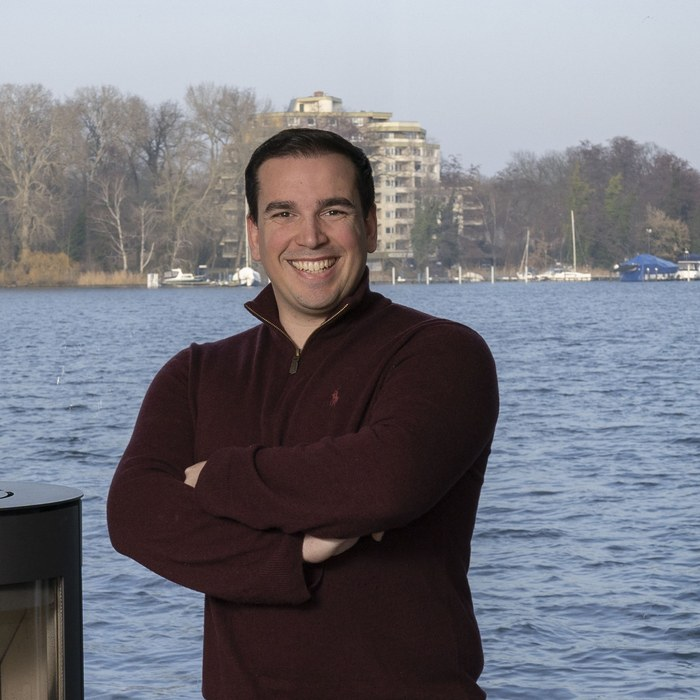
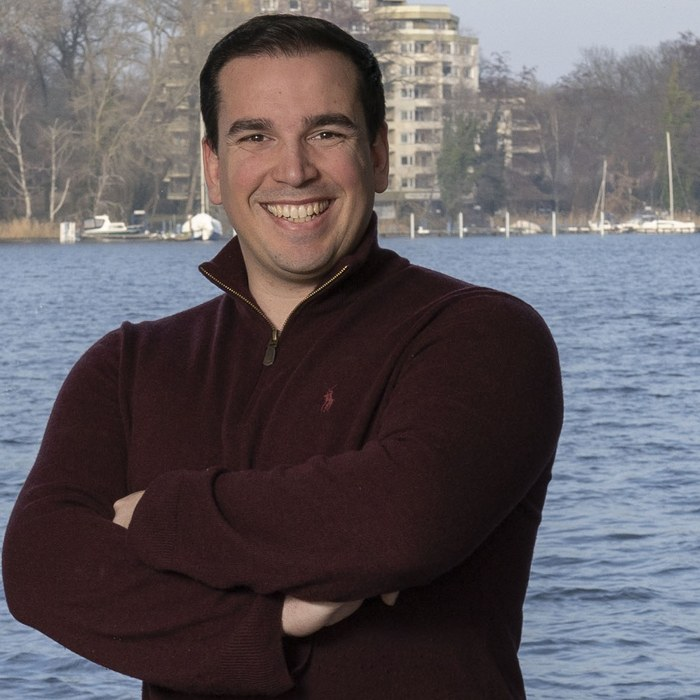
Copy-Schliff (Hero/System/Einstieg), neue Headline+Rotator, Trust-Badges, große About-Bilder, Rechtsseiten, kuratierter Datenschutz

diff --git a/index-v2.html b/index-v2.html
@@ -74,6 +74,9 @@ body::after{
 .title{font-family:var(--fd);font-weight:600;font-size:clamp(27px,3.3vw,44px);line-height:1.08;letter-spacing:-0.03em;max-width:20ch;}
 .sub{margin-top:30px;font-size:clamp(16px,1.35vw,20px);line-height:1.6;color:var(--text-50);max-width:62ch;}
 .accent{color:var(--blue-light);}
+.rot{display:inline-block;}
+.rot-w{display:inline-block;transition:opacity .3s ease,transform .3s ease;}
+.rot-w.out{opacity:0;transform:translateY(-0.35em);}
 @media(max-width:768px){.wrap{padding:0 22px;}}
 
 /* ── buttons ── */
@@ -111,6 +114,9 @@ body::after{
 .hero h1 .line{display:block;overflow:hidden;padding-bottom:0.06em;margin-bottom:-0.06em;}
 .hero h1 .line-inner{display:block;}
 .hero-sub{margin-top:34px;font-size:clamp(17px,1.5vw,21px);line-height:1.6;color:var(--text-50);max-width:48ch;}
+.hero-trust{display:flex;flex-wrap:wrap;gap:12px 26px;margin-top:28px;}
+.hero-trust>span{display:inline-flex;align-items:center;gap:7px;font-size:13.5px;color:var(--text-50);}
+.hero-trust .material-symbols-outlined{font-size:18px;color:var(--blue-light);}
 .hero-actions{margin-top:44px;display:flex;align-items:center;gap:14px;flex-wrap:wrap;}
 .hero-visual{position:relative;}
 .hero-dash{position:relative;border-radius:18px;overflow:hidden;border:1px solid var(--line);box-shadow:0 40px 100px -30px rgba(0,0,0,0.8),0 0 0 1px rgba(255,255,255,0.02);transform:perspective(1500px) rotateY(-8deg) rotateX(3deg);transition:transform .8s cubic-bezier(.16,1,.3,1);}
@@ -393,23 +399,37 @@ body::after{
 .team-kicker{justify-content:center;margin-bottom:26px;}
 .team-photo-c{width:64%;max-width:700px;margin:0;}
 .team-photo-c img{width:100%;height:auto;display:block;}
-.team-copy{position:relative;z-index:2;max-width:760px;margin-top:clamp(-185px,-11.5vw,-52px);}
+.team-copy{position:relative;z-index:2;max-width:760px;margin-top:clamp(-360px,-24vw,-90px);}
 .team-hero .title{max-width:none;}
 .team-hero .sub{margin:18px auto 0;}
-@media(max-width:760px){.team-photo-c{width:94%;}.team-copy{margin-top:-14vw;}}
+@media(max-width:760px){.team-photo-c{width:94%;}.team-copy{margin-top:-24vw;}}
 .fbio-cal{display:inline-flex;align-items:center;gap:6px;margin-top:14px;font-size:13px;font-weight:500;color:var(--blue-light);transition:gap .3s ease,color .3s ease;}
 .fbio-cal .material-symbols-outlined{font-size:17px;}
 .fbio-cal:hover{gap:11px;color:#fff;}
-.leitbild{max-width:720px;margin:clamp(40px,5vw,64px) auto 0;text-align:center;}
+.leitbild{max-width:880px;margin:clamp(72px,10vw,128px) auto 0;text-align:center;background:linear-gradient(180deg,rgba(255,255,255,0.07),rgba(255,255,255,0.025));border:1px solid var(--line-strong);border-radius:24px;padding:clamp(36px,5vw,60px);}
 .leitbild .kicker{justify-content:center;margin-bottom:18px;}
-.leitbild p{color:var(--text-50);font-size:clamp(16px,1.6vw,20px);line-height:1.7;}
+.leitbild p{color:var(--text);font-size:clamp(16px,1.6vw,20px);line-height:1.7;}
+.ff-cta{margin-top:22px;}
 .contact-grid{margin-top:clamp(32px,4vw,48px);display:grid;grid-template-columns:repeat(3,1fr);gap:14px;}
 .contact-card{display:flex;align-items:center;gap:14px;padding:20px 22px;border:1px solid var(--line);border-radius:16px;background:var(--bg-2);transition:border-color .3s ease,transform .3s ease;}
 .contact-card:hover{border-color:var(--line-strong);transform:translateY(-2px);}
 .contact-card .material-symbols-outlined{font-size:24px;color:var(--blue-light);flex-shrink:0;}
 .contact-card .cc-l{display:block;font-family:var(--fm);font-size:10px;letter-spacing:0.14em;text-transform:uppercase;color:var(--text-35);}
 .contact-card .cc-v{display:block;font-size:15px;color:var(--text);margin-top:3px;}
-@media(max-width:760px){.contact-grid{grid-template-columns:1fr;}}
+.contact-grid.two{grid-template-columns:repeat(2,1fr);max-width:760px;}
+.contact-or{margin-top:clamp(36px,5vw,56px);color:var(--text-50);font-size:15px;}
+.contact-or + .contact-grid{margin-top:14px;}
+.legal{max-width:780px;}
+.legal-updated{font-family:var(--fm);font-size:12px;letter-spacing:0.08em;text-transform:uppercase;color:var(--text-35);margin-bottom:26px;}
+.legal h2{font-family:var(--fd);font-weight:600;font-size:clamp(20px,2.4vw,28px);letter-spacing:-0.02em;margin:40px 0 14px;}
+.legal h3{font-family:var(--fd);font-weight:600;font-size:17px;margin:26px 0 10px;}
+.legal p{color:var(--text-50);font-size:15px;line-height:1.75;margin:0 0 14px;}
+.legal .legal-label{color:var(--text);font-weight:600;margin:18px 0 6px;}
+.legal .legal-attr{font-size:12.5px;color:var(--text-35);margin-top:30px;}
+.legal ul{margin:0 0 16px;padding-left:20px;}
+.legal li{color:var(--text-50);font-size:15px;line-height:1.7;margin-bottom:6px;}
+.legal a{color:var(--blue-light);text-decoration:underline;word-break:break-word;}
+@media(max-width:760px){.contact-grid,.contact-grid.two{grid-template-columns:1fr;}}
 .founder-features{margin-top:clamp(36px,5vw,64px);display:flex;flex-direction:column;gap:clamp(44px,6vw,92px);}
 .founder-feature{display:grid;grid-template-columns:1.05fr 1fr;gap:clamp(28px,4.5vw,64px);align-items:center;}
 .founder-feature.alt .ff-media{order:2;}
@@ -473,6 +493,9 @@ body::after{
 .form-submit:hover{background:var(--blue-light);}
 .form-submit:disabled{opacity:.6;pointer-events:none;}
 .form-privacy{font-size:12px;color:var(--text-35);text-align:center;margin-top:10px;line-height:1.5;}
+.form-check{display:flex;align-items:flex-start;gap:10px;margin-top:6px;font-size:12.5px;color:var(--text-50);line-height:1.5;cursor:pointer;}
+.form-check input{margin-top:1px;width:16px;height:16px;flex-shrink:0;accent-color:var(--blue);cursor:pointer;}
+.form-check a{color:var(--blue-light);text-decoration:underline;}
 .modal-success{padding:46px 30px;text-align:center;display:none;}
 .modal-success.show{display:block;}
 .modal-form-wrap.hide{display:none;}
@@ -520,13 +543,17 @@ body.cursor-on,body.cursor-on a,body.cursor-on button,body.cursor-on input{curso
   <div class="hero-grid">
     <div>
       <h1 class="hero-h1">
-        <span class="line"><span class="line-inner">Nicht dein Marketing verliert Anfragen.</span></span>
-        <span class="line"><span class="line-inner">Sondern <span class="accent">was danach passiert.</span></span></span>
+        <span class="line"><span class="line-inner">Aus <span class="rot" id="heroRot"><span class="rot-w accent">jeder Anfrage</span></span> das Maximum.</span></span>
+        <span class="line"><span class="line-inner"><span class="accent">Messbar.</span></span></span>
       </h1>
-      <p class="hero-sub">Wir richten dein CRM so ein, dass keine Anfrage mehr liegen bleibt, jedes Angebot nachgefasst wird und du jederzeit siehst, wo jeder Deal steht.</p>
+      <p class="hero-sub">Wir bauen das System, das aus deinen bestehenden Anfragen mehr Termine und mehr Aufträge macht, ohne einen Euro mehr Werbung.</p>
       <div class="hero-actions">
         <a class="btn btn-primary" href="#cta">Strategiegespräch vereinbaren <span class="material-symbols-outlined">arrow_forward</span></a>
-        <a class="btn btn-ghost" href="#process">So arbeiten wir <span class="material-symbols-outlined">arrow_downward</span></a>
+        <a class="btn btn-ghost" href="#testimonials">Fallstudie ansehen <span class="material-symbols-outlined">arrow_downward</span></a>
+      </div>
+      <div class="hero-trust">
+        <span><span class="material-symbols-outlined">verified</span>Offizieller Pipedrive-Partner</span>
+        <span><span class="material-symbols-outlined">verified</span>Förderfähige Beratung</span>
       </div>
     </div>
     <div class="hero-visual">
@@ -611,9 +638,9 @@ body.cursor-on,body.cursor-on a,body.cursor-on button,body.cursor-on input{curso
 <!-- 02 SYSTEM -->
 <section class="sec" id="funnel">
   <div class="wrap">
-    <div class="kicker rv"><span class="idx">02</span><span class="bar"></span>Ein System</div>
-    <h2 class="title rv">Von der ersten Anfrage bis zum Auftrag, an einem Ort</h2>
-    <p class="sub rv d1">Jede Anfrage läuft durch denselben klaren Weg. Nichts bleibt liegen, nichts wird vergessen, und du siehst jederzeit, wo jeder Lead steht.</p>
+    <div class="kicker rv"><span class="idx">02</span><span class="bar"></span>Das System dahinter</div>
+    <h2 class="title rv">Keine Anfrage fällt mehr durchs Raster.</h2>
+    <p class="sub rv d1">Jede Anfrage läuft automatisch durch denselben Weg: erfasst, bestätigt, qualifiziert, nachgefasst. Du verlierst keine mehr und siehst jederzeit, wo jeder Deal steht.</p>
     <div class="stage rv">
       <div class="stage-video">
         <video class="v-desktop" autoplay muted loop playsinline preload="metadata" poster="assets/journey-start.png"><source src="assets/journey.mp4" type="video/mp4"/></video>
@@ -761,8 +788,8 @@ body.cursor-on,body.cursor-on a,body.cursor-on button,body.cursor-on input{curso
   <div class="wrap">
     <div class="entry-card rv">
       <div class="entry-badge">Der Einstieg</div>
-      <h3>Ein klarer Plan, bevor du dich festlegst.</h3>
-      <p>Wir starten mit einem kostenlosen Strategiegespräch und einer Analyse deines Anfrageprozesses. Du bekommst eine ehrliche Einschätzung, wo wir die größten Hebel sehen, und einen konkreten Maßnahmenplan mit Soll-Ist-Abgleich. Auf dieser Grundlage entscheidest du in Ruhe, ob und in welchem Umfang wir umsetzen.</p>
+      <h3>Du bekommst einen Fahrplan, bevor du einen Cent investierst.</h3>
+      <p>Im kostenlosen Strategiegespräch analysieren wir deinen Anfrageprozess und du bekommst einen konkreten Maßnahmenplan mit Soll-Ist-Abgleich: wo Umsatz liegen bleibt und welche Schritte das ändern. Den Plan behältst du, auch wenn wir nicht zusammenarbeiten.</p>
       <a class="btn btn-primary" href="#cta">Strategiegespräch vereinbaren <span class="material-symbols-outlined">arrow_forward</span></a>
     </div>
   </div>
@@ -810,11 +837,11 @@ body.cursor-on,body.cursor-on a,body.cursor-on button,body.cursor-on input{curso
     </div>
     <div class="founder-bios">
       <div class="fbio rv">
-        <div class="fbio-img"><img src="assets/janosch.jpg" alt="Janosch Jassim" loading="lazy"/></div>
+        <div class="fbio-img"><img src="assets/janosch.jpg?v=4" alt="Janosch Jassim" loading="lazy"/></div>
         <div><h4>Janosch Jassim</h4><div class="founder-role">Prozesse, CRM &amp; Förderung</div><p>Knapp 10 Jahre Digitalisierung im Mittelstand und Konzern, unter anderem bei der Deutschen Bahn. Baut CRM-Systeme und Automatisierungen, geprüfter Förderberater.</p></div>
       </div>
       <div class="fbio rv d1">
-        <div class="fbio-img"><img src="assets/valentin.jpg" alt="Valentin Hering" loading="lazy"/></div>
+        <div class="fbio-img"><img src="assets/valentin.jpg?v=3" alt="Valentin Hering" loading="lazy"/></div>
         <div><h4>Valentin Hering</h4><div class="founder-role">Performance, Vertrieb &amp; Daten</div><p>6 Jahre Verantwortung für Marketingbudgets von 10.000 bis 400.000 Euro, über Startups, Scale-ups und Mittelstand. Schwerpunkt: Datenbasiertes Testing sowie Anfragen- und Vertriebsoptimierung.</p></div>
       </div>
     </div>
@@ -837,7 +864,7 @@ body.cursor-on,body.cursor-on a,body.cursor-on button,body.cursor-on input{curso
     <button class="modal-close" id="modalClose"><span class="material-symbols-outlined" style="font-size:20px;">close</span></button>
     <div class="modal-form-wrap" id="modalFormWrap">
       <div class="modal-header">
-        <div class="modal-avatar"><img src="assets/valentin.jpg" alt="Valentin Hering"/></div>
+        <div class="modal-avatar"><img src="assets/valentin.jpg?v=3" alt="Valentin Hering"/></div>
         <div><h3>Strategiegespräch vereinbaren</h3><p>Ein erstes Gespräch mit den Gründern. Direkt und unverbindlich.</p></div>
       </div>
       <div class="modal-body">
@@ -854,6 +881,7 @@ body.cursor-on,body.cursor-on a,body.cursor-on button,body.cursor-on input{curso
           <div class="ff"><label for="fc">Unternehmen</label><input id="fc" type="text" placeholder="Name deines Unternehmens" required/></div>
           <div class="ff"><label for="fe">E-Mail-Adresse</label><input id="fe" type="email" placeholder="[email redacted]" required/></div>
           <div class="ff"><label for="fp">Telefonnummer</label><input id="fp" type="tel" placeholder="+49 ..." required/></div>
+          <label class="form-check"><input id="fprivacy" type="checkbox" required/><span>Ich habe die <a href="datenschutz.html" target="_blank" rel="noopener">Datenschutzerklärung</a> gelesen und bin mit der Verarbeitung meiner Daten einverstanden.</span></label>
           <button type="submit" class="form-submit" id="formSubmit">Strategiegespräch anfragen <span class="material-symbols-outlined" style="font-size:20px;">arrow_forward</span></button>
         </form>
         <p class="form-privacy">Wir nutzen deine Daten ausschließlich, um dich für das Strategiegespräch zu kontaktieren.</p>
@@ -889,7 +917,7 @@ body.cursor-on,body.cursor-on a,body.cursor-on button,body.cursor-on input{curso
     </div>
     <div class="footer-bot">
       <span>&copy; 2026 Growth Unit GmbH</span>
-      <div class="footer-legal"><a href="https://www.growthunit.de/impressum" target="_blank" rel="noopener">Impressum</a><a href="https://www.growthunit.de/datenschutz" target="_blank" rel="noopener">Datenschutz</a></div>
+      <div class="footer-legal"><a href="impressum.html">Impressum</a><a href="datenschutz.html">Datenschutz</a></div>
     </div>
   </div>
 </footer>
@@ -901,6 +929,17 @@ body.cursor-on,body.cursor-on a,body.cursor-on button,body.cursor-on input{curso
 // baseline reveals (work without GSAP)
 const io=new IntersectionObserver(es=>{es.forEach(e=>{if(e.isIntersecting){e.target.classList.add('vis');io.unobserve(e.target);}})},{threshold:0.12,rootMargin:'0px 0px -40px 0px'});
 document.querySelectorAll('.rv').forEach(el=>io.observe(el));
+
+// hero word rotator: Anfrage <-> Lead
+(function(){
+  var el=document.getElementById('heroRot'); if(!el)return;
+  if(matchMedia('(prefers-reduced-motion: reduce)').matches)return;
+  var w=el.querySelector('.rot-w'), words=['jeder Anfrage','jedem Lead'], i=0;
+  setInterval(function(){
+    w.classList.add('out');
+    setTimeout(function(){ i=(i+1)%words.length; w.textContent=words[i]; w.classList.remove('out'); },300);
+  },2600);
+})();
 
 // nav
 const nav=document.getElementById('nav');
@@ -988,12 +1027,13 @@ cForm.addEventListener('submit',async e=>{
 
   // hero line reveal
   gsap.set('.hero-h1 .line-inner',{yPercent:115});
-  gsap.set(['.hero-sub','.hero-actions','.hero-visual'],{opacity:0,y:30});
+  gsap.set(['.hero-sub','.hero-actions','.hero-trust','.hero-visual'],{opacity:0,y:30});
   gsap.timeline({defaults:{ease:'power3.out'}})
     .to('.hero-h1 .line-inner',{yPercent:0,duration:1.1,stagger:0.1,ease:'power4.out'},0.15)
     .to('.hero-visual',{opacity:1,y:0,duration:1.1},0.4)
     .to('.hero-sub',{opacity:1,y:0,duration:0.9},0.7)
-    .to('.hero-actions',{opacity:1,y:0,duration:0.9},0.85);
+    .to('.hero-actions',{opacity:1,y:0,duration:0.9},0.85)
+    .to('.hero-trust',{opacity:1,y:0,duration:0.9},1.0);
 
   // funnel line scrub
   var flow=document.getElementById('flow');

diff --git a/about.html b/about.html
@@ -74,6 +74,9 @@ body::after{
 .title{font-family:var(--fd);font-weight:600;font-size:clamp(27px,3.3vw,44px);line-height:1.08;letter-spacing:-0.03em;max-width:20ch;}
 .sub{margin-top:30px;font-size:clamp(16px,1.35vw,20px);line-height:1.6;color:var(--text-50);max-width:62ch;}
 .accent{color:var(--blue-light);}
+.rot{display:inline-block;}
+.rot-w{display:inline-block;transition:opacity .3s ease,transform .3s ease;}
+.rot-w.out{opacity:0;transform:translateY(-0.35em);}
 @media(max-width:768px){.wrap{padding:0 22px;}}
 
 /* ── buttons ── */
@@ -111,6 +114,9 @@ body::after{
 .hero h1 .line{display:block;overflow:hidden;padding-bottom:0.06em;margin-bottom:-0.06em;}
 .hero h1 .line-inner{display:block;}
 .hero-sub{margin-top:34px;font-size:clamp(17px,1.5vw,21px);line-height:1.6;color:var(--text-50);max-width:48ch;}
+.hero-trust{display:flex;flex-wrap:wrap;gap:12px 26px;margin-top:28px;}
+.hero-trust>span{display:inline-flex;align-items:center;gap:7px;font-size:13.5px;color:var(--text-50);}
+.hero-trust .material-symbols-outlined{font-size:18px;color:var(--blue-light);}
 .hero-actions{margin-top:44px;display:flex;align-items:center;gap:14px;flex-wrap:wrap;}
 .hero-visual{position:relative;}
 .hero-dash{position:relative;border-radius:18px;overflow:hidden;border:1px solid var(--line);box-shadow:0 40px 100px -30px rgba(0,0,0,0.8),0 0 0 1px rgba(255,255,255,0.02);transform:perspective(1500px) rotateY(-8deg) rotateX(3deg);transition:transform .8s cubic-bezier(.16,1,.3,1);}
@@ -393,23 +399,37 @@ body::after{
 .team-kicker{justify-content:center;margin-bottom:26px;}
 .team-photo-c{width:64%;max-width:700px;margin:0;}
 .team-photo-c img{width:100%;height:auto;display:block;}
-.team-copy{position:relative;z-index:2;max-width:760px;margin-top:clamp(-185px,-11.5vw,-52px);}
+.team-copy{position:relative;z-index:2;max-width:760px;margin-top:clamp(-360px,-24vw,-90px);}
 .team-hero .title{max-width:none;}
 .team-hero .sub{margin:18px auto 0;}
-@media(max-width:760px){.team-photo-c{width:94%;}.team-copy{margin-top:-14vw;}}
+@media(max-width:760px){.team-photo-c{width:94%;}.team-copy{margin-top:-24vw;}}
 .fbio-cal{display:inline-flex;align-items:center;gap:6px;margin-top:14px;font-size:13px;font-weight:500;color:var(--blue-light);transition:gap .3s ease,color .3s ease;}
 .fbio-cal .material-symbols-outlined{font-size:17px;}
 .fbio-cal:hover{gap:11px;color:#fff;}
-.leitbild{max-width:720px;margin:clamp(40px,5vw,64px) auto 0;text-align:center;}
+.leitbild{max-width:880px;margin:clamp(72px,10vw,128px) auto 0;text-align:center;background:linear-gradient(180deg,rgba(255,255,255,0.07),rgba(255,255,255,0.025));border:1px solid var(--line-strong);border-radius:24px;padding:clamp(36px,5vw,60px);}
 .leitbild .kicker{justify-content:center;margin-bottom:18px;}
-.leitbild p{color:var(--text-50);font-size:clamp(16px,1.6vw,20px);line-height:1.7;}
+.leitbild p{color:var(--text);font-size:clamp(16px,1.6vw,20px);line-height:1.7;}
+.ff-cta{margin-top:22px;}
 .contact-grid{margin-top:clamp(32px,4vw,48px);display:grid;grid-template-columns:repeat(3,1fr);gap:14px;}
 .contact-card{display:flex;align-items:center;gap:14px;padding:20px 22px;border:1px solid var(--line);border-radius:16px;background:var(--bg-2);transition:border-color .3s ease,transform .3s ease;}
 .contact-card:hover{border-color:var(--line-strong);transform:translateY(-2px);}
 .contact-card .material-symbols-outlined{font-size:24px;color:var(--blue-light);flex-shrink:0;}
 .contact-card .cc-l{display:block;font-family:var(--fm);font-size:10px;letter-spacing:0.14em;text-transform:uppercase;color:var(--text-35);}
 .contact-card .cc-v{display:block;font-size:15px;color:var(--text);margin-top:3px;}
-@media(max-width:760px){.contact-grid{grid-template-columns:1fr;}}
+.contact-grid.two{grid-template-columns:repeat(2,1fr);max-width:760px;}
+.contact-or{margin-top:clamp(36px,5vw,56px);color:var(--text-50);font-size:15px;}
+.contact-or + .contact-grid{margin-top:14px;}
+.legal{max-width:780px;}
+.legal-updated{font-family:var(--fm);font-size:12px;letter-spacing:0.08em;text-transform:uppercase;color:var(--text-35);margin-bottom:26px;}
+.legal h2{font-family:var(--fd);font-weight:600;font-size:clamp(20px,2.4vw,28px);letter-spacing:-0.02em;margin:40px 0 14px;}
+.legal h3{font-family:var(--fd);font-weight:600;font-size:17px;margin:26px 0 10px;}
+.legal p{color:var(--text-50);font-size:15px;line-height:1.75;margin:0 0 14px;}
+.legal .legal-label{color:var(--text);font-weight:600;margin:18px 0 6px;}
+.legal .legal-attr{font-size:12.5px;color:var(--text-35);margin-top:30px;}
+.legal ul{margin:0 0 16px;padding-left:20px;}
+.legal li{color:var(--text-50);font-size:15px;line-height:1.7;margin-bottom:6px;}
+.legal a{color:var(--blue-light);text-decoration:underline;word-break:break-word;}
+@media(max-width:760px){.contact-grid,.contact-grid.two{grid-template-columns:1fr;}}
 .founder-features{margin-top:clamp(36px,5vw,64px);display:flex;flex-direction:column;gap:clamp(44px,6vw,92px);}
 .founder-feature{display:grid;grid-template-columns:1.05fr 1fr;gap:clamp(28px,4.5vw,64px);align-items:center;}
 .founder-feature.alt .ff-media{order:2;}
@@ -473,6 +493,9 @@ body::after{
 .form-submit:hover{background:var(--blue-light);}
 .form-submit:disabled{opacity:.6;pointer-events:none;}
 .form-privacy{font-size:12px;color:var(--text-35);text-align:center;margin-top:10px;line-height:1.5;}
+.form-check{display:flex;align-items:flex-start;gap:10px;margin-top:6px;font-size:12.5px;color:var(--text-50);line-height:1.5;cursor:pointer;}
+.form-check input{margin-top:1px;width:16px;height:16px;flex-shrink:0;accent-color:var(--blue);cursor:pointer;}
+.form-check a{color:var(--blue-light);text-decoration:underline;}
 .modal-success{padding:46px 30px;text-align:center;display:none;}
 .modal-success.show{display:block;}
 .modal-form-wrap.hide{display:none;}
@@ -519,16 +542,16 @@ body.cursor-on,body.cursor-on a,body.cursor-on button,body.cursor-on input{curso
 <section class="sec" id="about" style="padding-top:clamp(140px,18vh,200px);">
   <div class="wrap">
     <div class="kicker rv">Über uns</div>
-    <h2 class="title rv">Meet the Team</h2>
-    <p class="sub rv d1">Mit langjähriger Erfahrung aus verschiedenen Branchen und Unternehmensgrößen setzen wir neue Standards.</p>
+    <h2 class="title rv">Wir setzen den Standard, den andere versprechen.</h2>
+    <p class="sub rv d1">Wir arbeiten als Partner mit, nicht als Dienstleister, der Aufgaben abarbeitet.</p>
     <div class="founder-features">
       <div class="founder-feature rv">
         <div class="ff-media"><img src="assets/valentin-lg.jpg" alt="Valentin Hering, Gründer von Growth Unit" loading="lazy"/></div>
         <div class="ff-body">
           <h3>Valentin Hering</h3>
           <div class="founder-role">Geschäftsführer · Marketing-Evangelist mit Fokus auf Performance</div>
-          <p>Ich bin passionierter Marketer und habe in den letzten sechs Jahren kleine Budgets von 10.000 bis 400.000 Euro für Start-ups, Scale-ups, mittelständischen Unternehmen und Corporates mit einem klaren Performance Fokus verantwortet. Insbesondere in der Zusammenarbeit mit Venture Buildern habe ich Systeme entwickelt, die ein datenbasiertes Testing und nachhaltige Optimierung aller Paid Marketing Aktivitäten ermöglichen.</p>
-          <a class="fbio-cal" href="https://calendar.google.com/calendar/u/0/appointments/schedules/AcZssZ399MbmebK1RnJhrtd572i01whZG7szUFzdifasOKy0pEEjHohvCpi9lMiBwOwpqzPbnSp9uSsU" target="_blank" rel="noopener">Termin mit Valentin vereinbaren <span class="material-symbols-outlined">arrow_outward</span></a>
+          <p>Valentin verantwortete in den letzten sechs Jahren Marketingbudgets von 10.000 bis 400.000 Euro, über Start-ups, Scale-ups, Mittelstand und Konzerne hinweg, immer mit klarem Performance-Fokus. In der Arbeit mit Venture Buildern entwickelte er Systeme, die datenbasiertes Testing und die nachhaltige Optimierung aller Marketing-Aktivitäten ermöglichen.</p>
+          <a class="btn btn-primary ff-cta" href="https://calendar.google.com/calendar/u/0/appointments/schedules/AcZssZ399MbmebK1RnJhrtd572i01whZG7szUFzdifasOKy0pEEjHohvCpi9lMiBwOwpqzPbnSp9uSsU" target="_blank" rel="noopener">Termin mit Valentin vereinbaren <span class="material-symbols-outlined">arrow_forward</span></a>
         </div>
       </div>
       <div class="founder-feature rv alt">
@@ -536,8 +559,8 @@ body.cursor-on,body.cursor-on a,body.cursor-on button,body.cursor-on input{curso
         <div class="ff-body">
           <h3>Janosch Jassim</h3>
           <div class="founder-role">Geschäftsführer · Digitalisierungsexperte mit unternehmerischem Fokus</div>
-          <p>Mit fast 10 Jahren Erfahrung habe ich Unternehmen unterschiedlichster Größe, von KMUs bis hin zu Corporates wie der Deutschen Bahn, dabei unterstützt, ihre Prozesse zu automatisieren und ihre Digitalisierungsziele zu erreichen. Mein Fokus liegt darauf, Digitalisierung und Automatisierung gezielt einzusetzen, um unternehmerische Prozesse zu optimieren und eine nachhaltige Wachstumsstrategie zu ermöglichen.</p>
-          <a class="fbio-cal" href="https://calendar.app.google/2Won3itVyUCMtDRLA" target="_blank" rel="noopener">Termin mit Janosch vereinbaren <span class="material-symbols-outlined">arrow_outward</span></a>
+          <p>Mit fast zehn Jahren Erfahrung begleitete Janosch Unternehmen jeder Größe, vom Mittelstand bis zu Konzernen wie der Deutschen Bahn, bei der Automatisierung ihrer Prozesse und dem Erreichen ihrer Digitalisierungsziele. Sein Fokus: Digitalisierung und Automatisierung so einzusetzen, dass operative Prozesse effizienter werden und nachhaltiges Wachstum möglich wird.</p>
+          <a class="btn btn-primary ff-cta" href="https://calendar.app.google/2Won3itVyUCMtDRLA" target="_blank" rel="noopener">Termin mit Janosch vereinbaren <span class="material-symbols-outlined">arrow_forward</span></a>
         </div>
       </div>
     </div>
@@ -555,7 +578,7 @@ body.cursor-on,body.cursor-on a,body.cursor-on button,body.cursor-on input{curso
     <button class="modal-close" id="modalClose"><span class="material-symbols-outlined" style="font-size:20px;">close</span></button>
     <div class="modal-form-wrap" id="modalFormWrap">
       <div class="modal-header">
-        <div class="modal-avatar"><img src="assets/valentin.jpg" alt="Valentin Hering"/></div>
+        <div class="modal-avatar"><img src="assets/valentin.jpg?v=3" alt="Valentin Hering"/></div>
         <div><h3>Strategiegespräch vereinbaren</h3><p>Ein erstes Gespräch mit den Gründern. Direkt und unverbindlich.</p></div>
       </div>
       <div class="modal-body">
@@ -572,6 +595,7 @@ body.cursor-on,body.cursor-on a,body.cursor-on button,body.cursor-on input{curso
           <div class="ff"><label for="fc">Unternehmen</label><input id="fc" type="text" placeholder="Name deines Unternehmens" required/></div>
           <div class="ff"><label for="fe">E-Mail-Adresse</label><input id="fe" type="email" placeholder="[email redacted]" required/></div>
           <div class="ff"><label for="fp">Telefonnummer</label><input id="fp" type="tel" placeholder="+49 ..." required/></div>
+          <label class="form-check"><input id="fprivacy" type="checkbox" required/><span>Ich habe die <a href="datenschutz.html" target="_blank" rel="noopener">Datenschutzerklärung</a> gelesen und bin mit der Verarbeitung meiner Daten einverstanden.</span></label>
           <button type="submit" class="form-submit" id="formSubmit">Strategiegespräch anfragen <span class="material-symbols-outlined" style="font-size:20px;">arrow_forward</span></button>
         </form>
         <p class="form-privacy">Wir nutzen deine Daten ausschließlich, um dich für das Strategiegespräch zu kontaktieren.</p>
@@ -607,7 +631,7 @@ body.cursor-on,body.cursor-on a,body.cursor-on button,body.cursor-on input{curso
     </div>
     <div class="footer-bot">
       <span>&copy; 2026 Growth Unit GmbH</span>
-      <div class="footer-legal"><a href="https://www.growthunit.de/impressum" target="_blank" rel="noopener">Impressum</a><a href="https://www.growthunit.de/datenschutz" target="_blank" rel="noopener">Datenschutz</a></div>
+      <div class="footer-legal"><a href="impressum.html">Impressum</a><a href="datenschutz.html">Datenschutz</a></div>
     </div>
   </div>
 </footer>
@@ -619,6 +643,17 @@ body.cursor-on,body.cursor-on a,body.cursor-on button,body.cursor-on input{curso
 // baseline reveals (work without GSAP)
 const io=new IntersectionObserver(es=>{es.forEach(e=>{if(e.isIntersecting){e.target.classList.add('vis');io.unobserve(e.target);}})},{threshold:0.12,rootMargin:'0px 0px -40px 0px'});
 document.querySelectorAll('.rv').forEach(el=>io.observe(el));
+
+// hero word rotator: Anfrage <-> Lead
+(function(){
+  var el=document.getElementById('heroRot'); if(!el)return;
+  if(matchMedia('(prefers-reduced-motion: reduce)').matches)return;
+  var w=el.querySelector('.rot-w'), words=['jeder Anfrage','jedem Lead'], i=0;
+  setInterval(function(){
+    w.classList.add('out');
+    setTimeout(function(){ i=(i+1)%words.length; w.textContent=words[i]; w.classList.remove('out'); },300);
+  },2600);
+})();
 
 // nav
 const nav=document.getElementById('nav');
@@ -706,12 +741,13 @@ cForm.addEventListener('submit',async e=>{
 
   // hero line reveal
   gsap.set('.hero-h1 .line-inner',{yPercent:115});
-  gsap.set(['.hero-sub','.hero-actions','.hero-visual'],{opacity:0,y:30});
+  gsap.set(['.hero-sub','.hero-actions','.hero-trust','.hero-visual'],{opacity:0,y:30});
   gsap.timeline({defaults:{ease:'power3.out'}})
     .to('.hero-h1 .line-inner',{yPercent:0,duration:1.1,stagger:0.1,ease:'power4.out'},0.15)
     .to('.hero-visual',{opacity:1,y:0,duration:1.1},0.4)
     .to('.hero-sub',{opacity:1,y:0,duration:0.9},0.7)
-    .to('.hero-actions',{opacity:1,y:0,duration:0.9},0.85);
+    .to('.hero-actions',{opacity:1,y:0,duration:0.9},0.85)
+    .to('.hero-trust',{opacity:1,y:0,duration:0.9},1.0);
 
   // funnel line scrub
   var flow=document.getElementById('flow');